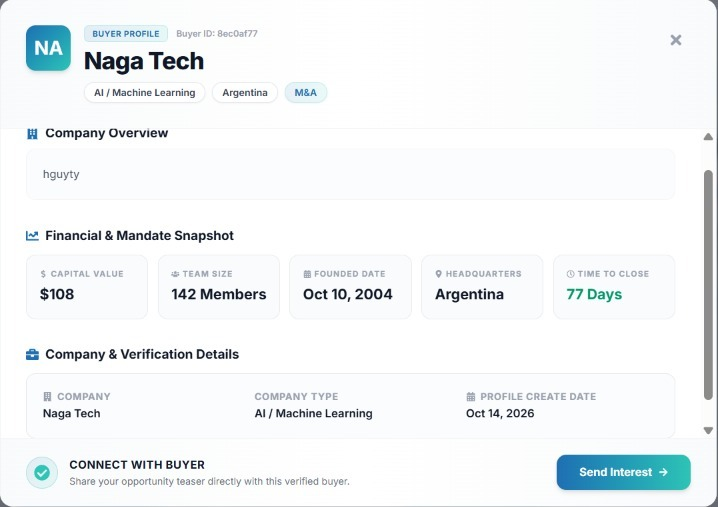
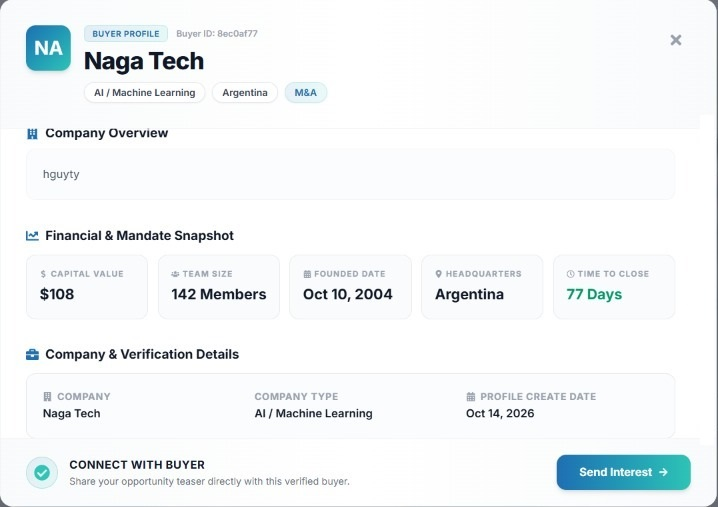
Feature update

Changed region(s): [[0.9805, 0.3254, 1.0, 0.7988], [0.9805, 0.8284, 1.0, 0.858], [0.9805, 0.2663, 1.0, 0.2959]]

diff --git a/app/dms/page.js b/app/dms/page.js
@@ -6,7 +6,7 @@ import "aos/dist/aos.css";
 import Link from "next/link";
 import DocumentWorkspaceHero from "@/components/landing/DocumentWorkspaceHero";
 import ForestCard from "@/components/ForestCard";
-import { FaBars, FaTimes, FaUserTie, FaBuilding, FaHandshake, FaChartLine, FaShieldAlt, FaFileContract, FaKey, FaSearch, FaChevronDown, FaPlus, FaServer, FaBriefcase } from "react-icons/fa";
+import { FaBars, FaTimes, FaUserTie, FaBuilding, FaHandshake, FaChartLine, FaShieldAlt, FaFileContract, FaKey, FaSearch, FaChevronDown, FaPlus, FaMinus, FaServer, FaBriefcase } from "react-icons/fa";
 
 const DMS_FEATURE_TABS = [
   {
@@ -46,18 +46,26 @@ const DMS_FEATURE_TABS = [
       {
         title: "Real-Time Deal Tracking",
         desc: "Monitor every stage of your transaction from initial interest to closing with live progress indicators and activity insights.",
+        image: "/images/deal-room-tracking.png",
+        imageAlt: "Real-Time Deal Tracking",
       },
       {
         title: "Multi-Deal Room Management",
         desc: "Create, organize, and switch effortlessly between multiple active deal rooms from one unified workspace.",
+        image: "/images/deal-room-multi.png",
+        imageAlt: "Multi-Deal Room Management",
       },
       {
         title: "Isolated Deal Rooms",
         desc: "Keep every transaction strictly compartmentalized with dedicated permissions, buyer groups, and zero cross-deal data exposure.",
+        image: "/images/deal-room-isolated.png",
+        imageAlt: "Isolated Deal Rooms",
       },
       {
         title: "NDA-Gated Deal Room Access",
         desc: "Enforce mandatory digital NDA signatures before granting buyers access to confidential deal documents and data rooms.",
+        image: "/images/deal-room-nda.png",
+        imageAlt: "NDA-Gated Deal Room Access",
       },
     ],
   },
@@ -164,6 +172,17 @@ const DMS_FEATURE_TABS = [
 export default function DMSLanding() {
   const [activeDmsFeature, setActiveDmsFeature] = useState("marketplace");
   const [activeDmsStep, setActiveDmsStep] = useState(0);
+  const [expandedDmsStep, setExpandedDmsStep] = useState(null);
+  const [lineDrawn, setLineDrawn] = useState(true);
+
+  const triggerLineAnimation = () => {
+    setLineDrawn(false);
+    requestAnimationFrame(() => {
+      requestAnimationFrame(() => {
+        setLineDrawn(true);
+      });
+    });
+  };
   const [isMobileMenuOpen, setIsMobileMenuOpen] = useState(false);
   const [mobileExpanded, setMobileExpanded] = useState({
     products: false,
@@ -678,11 +697,45 @@ export default function DMSLanding() {
       <ForestCard />
 
       {/* Structured Deal Transformation Section (Below DMS Modules) */}
-      <section className="pt-0 -mt-4 md:-mt-8 pb-10 md:pb-14 px-4 md:px-6 bg-white relative overflow-hidden">
-        <div className="w-full max-w-[1440px] mx-auto">
+      <section className="pt-6 md:pt-10 pb-12 md:pb-16 px-4 md:px-6 bg-white relative overflow-hidden">
+        {/* Decorative Flowing Wave Ribbon Line */}
+        <svg
+          aria-hidden="true"
+          viewBox="0 0 1440 520"
+          fill="none"
+          preserveAspectRatio="none"
+          className="pointer-events-none absolute inset-0 w-full h-full"
+        >
+          <defs>
+            <linearGradient id="dmsWaveStroke" x1="0%" y1="0%" x2="100%" y2="0%">
+              <stop offset="0%" stopColor="#0ea5e9" stopOpacity="0.16" />
+              <stop offset="50%" stopColor="#06d6c8" stopOpacity="0.20" />
+              <stop offset="100%" stopColor="#1f6fb2" stopOpacity="0.16" />
+            </linearGradient>
+          </defs>
+
+          {/* Soft Thick Ribbon: Left-Mid -> Center-Dip -> Top-Right (Animates on Click) */}
+          <path
+            d="M0,260 C260,260 440,400 720,380 C1020,360 1240,120 1480,50"
+            pathLength={1}
+            stroke="url(#dmsWaveStroke)"
+            strokeWidth="64"
+            strokeLinecap="round"
+            strokeLinejoin="round"
+            style={{
+              strokeDasharray: 1,
+              strokeDashoffset: lineDrawn ? 0 : 1,
+              transition: lineDrawn
+                ? "stroke-dashoffset 1.8s cubic-bezier(0.16, 1, 0.3, 1)"
+                : "none",
+            }}
+          />
+        </svg>
+
+        <div className="w-full max-w-[1440px] mx-auto relative z-10">
           {/* Top Row: DMS Feature Title + Horizontal Module Navbar */}
           <div className="flex flex-col xl:flex-row xl:items-center xl:justify-between gap-4 mb-6 md:mb-8" data-aos="fade-up">
-            <h2 className="text-3xl md:text-4xl font-extrabold text-[#0f172a] tracking-tight leading-tight flex-shrink-0">
+            <h2 className="text-3xl md:text-5xl font-extrabold text-[#0f172a] tracking-tight flex-shrink-0 md:pl-8 lg:pl-14 xl:pl-16">
               DMS Feature
             </h2>
 
@@ -699,6 +752,8 @@ export default function DMSLanding() {
                     onClick={() => {
                       setActiveDmsFeature(tab.id);
                       setActiveDmsStep(0);
+                      setExpandedDmsStep(null);
+                      triggerLineAnimation();
                     }}
                     className={`px-3.5 sm:px-4 py-2 rounded-xl text-xs sm:text-sm font-semibold whitespace-nowrap transition-all duration-200 cursor-pointer ${
                       isActive
@@ -729,7 +784,7 @@ export default function DMSLanding() {
             return (
               <div className="grid grid-cols-1 lg:grid-cols-12 gap-6 lg:gap-8 items-stretch" data-aos="fade-up">
                 {/* Left Side: Vertical Feature List */}
-                <div className="lg:col-span-4 flex">
+                <div className="lg:col-span-4 flex md:pl-8 lg:pl-14 xl:pl-16">
                   <div
                     role="tablist"
                     aria-label={`${currentTab.label} features`}
@@ -737,30 +792,66 @@ export default function DMSLanding() {
                   >
                     {currentTab.steps.map((step, idx) => {
                       const isStepActive = idx === safeStepIdx;
+                      const isStepExpanded = expandedDmsStep === idx;
                       return (
-                        <button
+                        <div
                           key={step.title}
-                          type="button"
                           role="tab"
+                          tabIndex={0}
                           aria-selected={isStepActive}
-                          onClick={() => setActiveDmsStep(idx)}
-                          className={`w-full px-4 py-3.5 lg:flex-1 rounded-xl text-sm sm:text-base font-semibold transition-all duration-200 cursor-pointer flex items-center justify-between gap-3 text-left ${
+                          onClick={() => {
+                            setActiveDmsStep(idx);
+                            triggerLineAnimation();
+                          }}
+                          onKeyDown={(e) => {
+                            if (e.key === "Enter" || e.key === " ") {
+                              e.preventDefault();
+                              setActiveDmsStep(idx);
+                              triggerLineAnimation();
+                            }
+                          }}
+                          className={`w-full px-4 py-3.5 lg:flex-1 rounded-xl text-sm sm:text-base font-semibold transition-all duration-200 cursor-pointer flex flex-col justify-center text-left ${
                             isStepActive
                               ? "bg-gradient-to-r from-[var(--brand)] to-[#0ea5e9] text-white shadow-sm"
                               : "bg-white/70 text-[#4b5568] hover:text-[#0f172a] hover:bg-white"
                           }`}
                         >
-                          <span className="leading-snug">{step.title}</span>
-                          <span
-                            className={`w-7 h-7 rounded-full border flex items-center justify-center flex-shrink-0 transition-colors duration-200 ${
-                              isStepActive
-                                ? "border-white/70 text-white"
-                                : "border-slate-300 text-slate-500"
-                            }`}
-                          >
-                            <FaPlus className="text-[11px]" />
-                          </span>
-                        </button>
+                          <div className="flex items-center justify-between gap-3 w-full">
+                            <span className="leading-snug">{step.title}</span>
+                            <button
+                              type="button"
+                              aria-label={isStepExpanded ? `Collapse ${step.title} description` : `Expand ${step.title} description`}
+                              aria-expanded={isStepExpanded}
+                              onClick={(e) => {
+                                e.stopPropagation();
+                                setActiveDmsStep(idx);
+                                setExpandedDmsStep(isStepExpanded ? null : idx);
+                                triggerLineAnimation();
+                              }}
+                              className={`w-7 h-7 rounded-full border flex items-center justify-center flex-shrink-0 transition-colors duration-200 cursor-pointer ${
+                                isStepActive
+                                  ? "border-white/70 text-white hover:bg-white/15"
+                                  : "border-slate-300 text-slate-500 hover:border-slate-400 hover:bg-slate-100"
+                              }`}
+                            >
+                              {isStepExpanded ? (
+                                <FaMinus className="text-[11px]" />
+                              ) : (
+                                <FaPlus className="text-[11px]" />
+                              )}
+                            </button>
+                          </div>
+
+                          {isStepExpanded && (
+                            <p
+                              className={`mt-2 text-xs sm:text-sm font-normal leading-relaxed ${
+                                isStepActive ? "text-white/90" : "text-[#505b6f]"
+                              }`}
+                            >
+                              {step.desc}
+                            </p>
+                          )}
+                        </div>
                       );
                     })}
                   </div>
